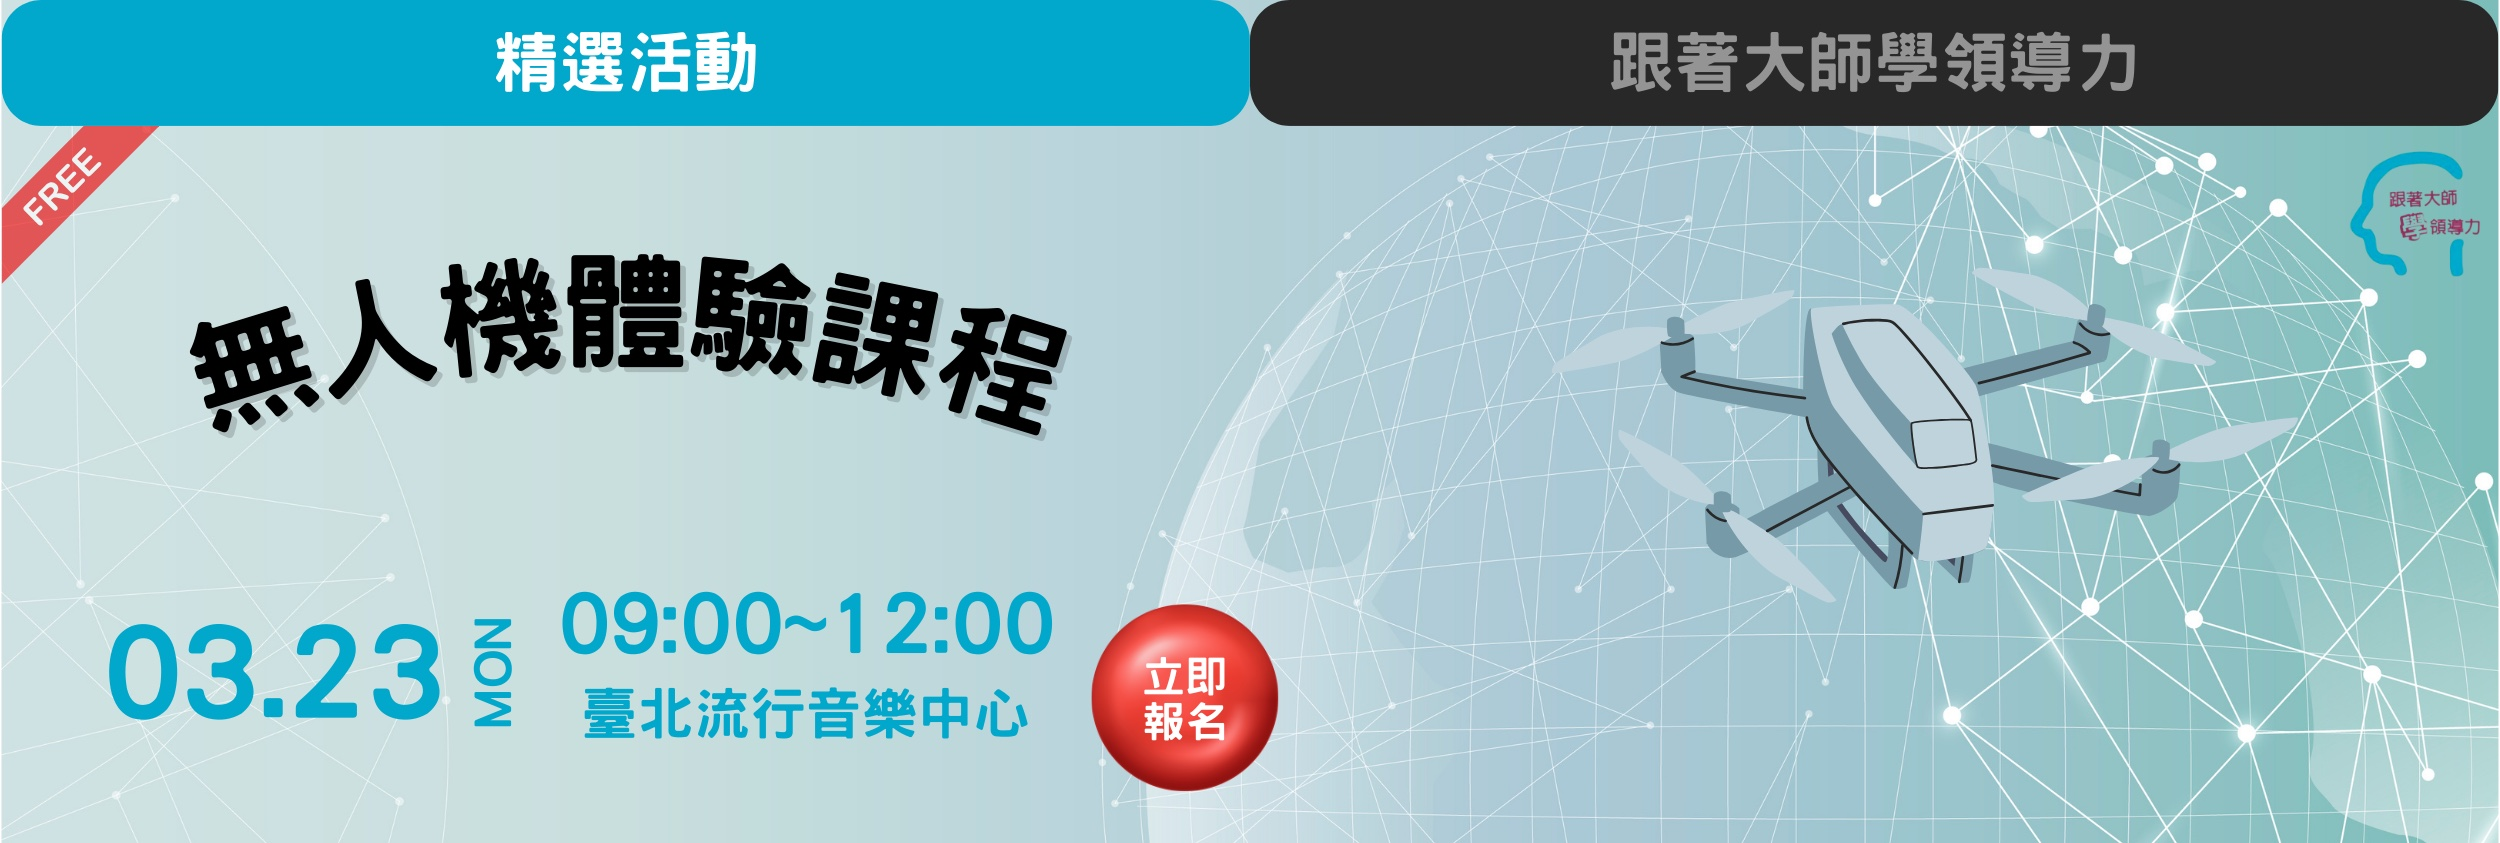
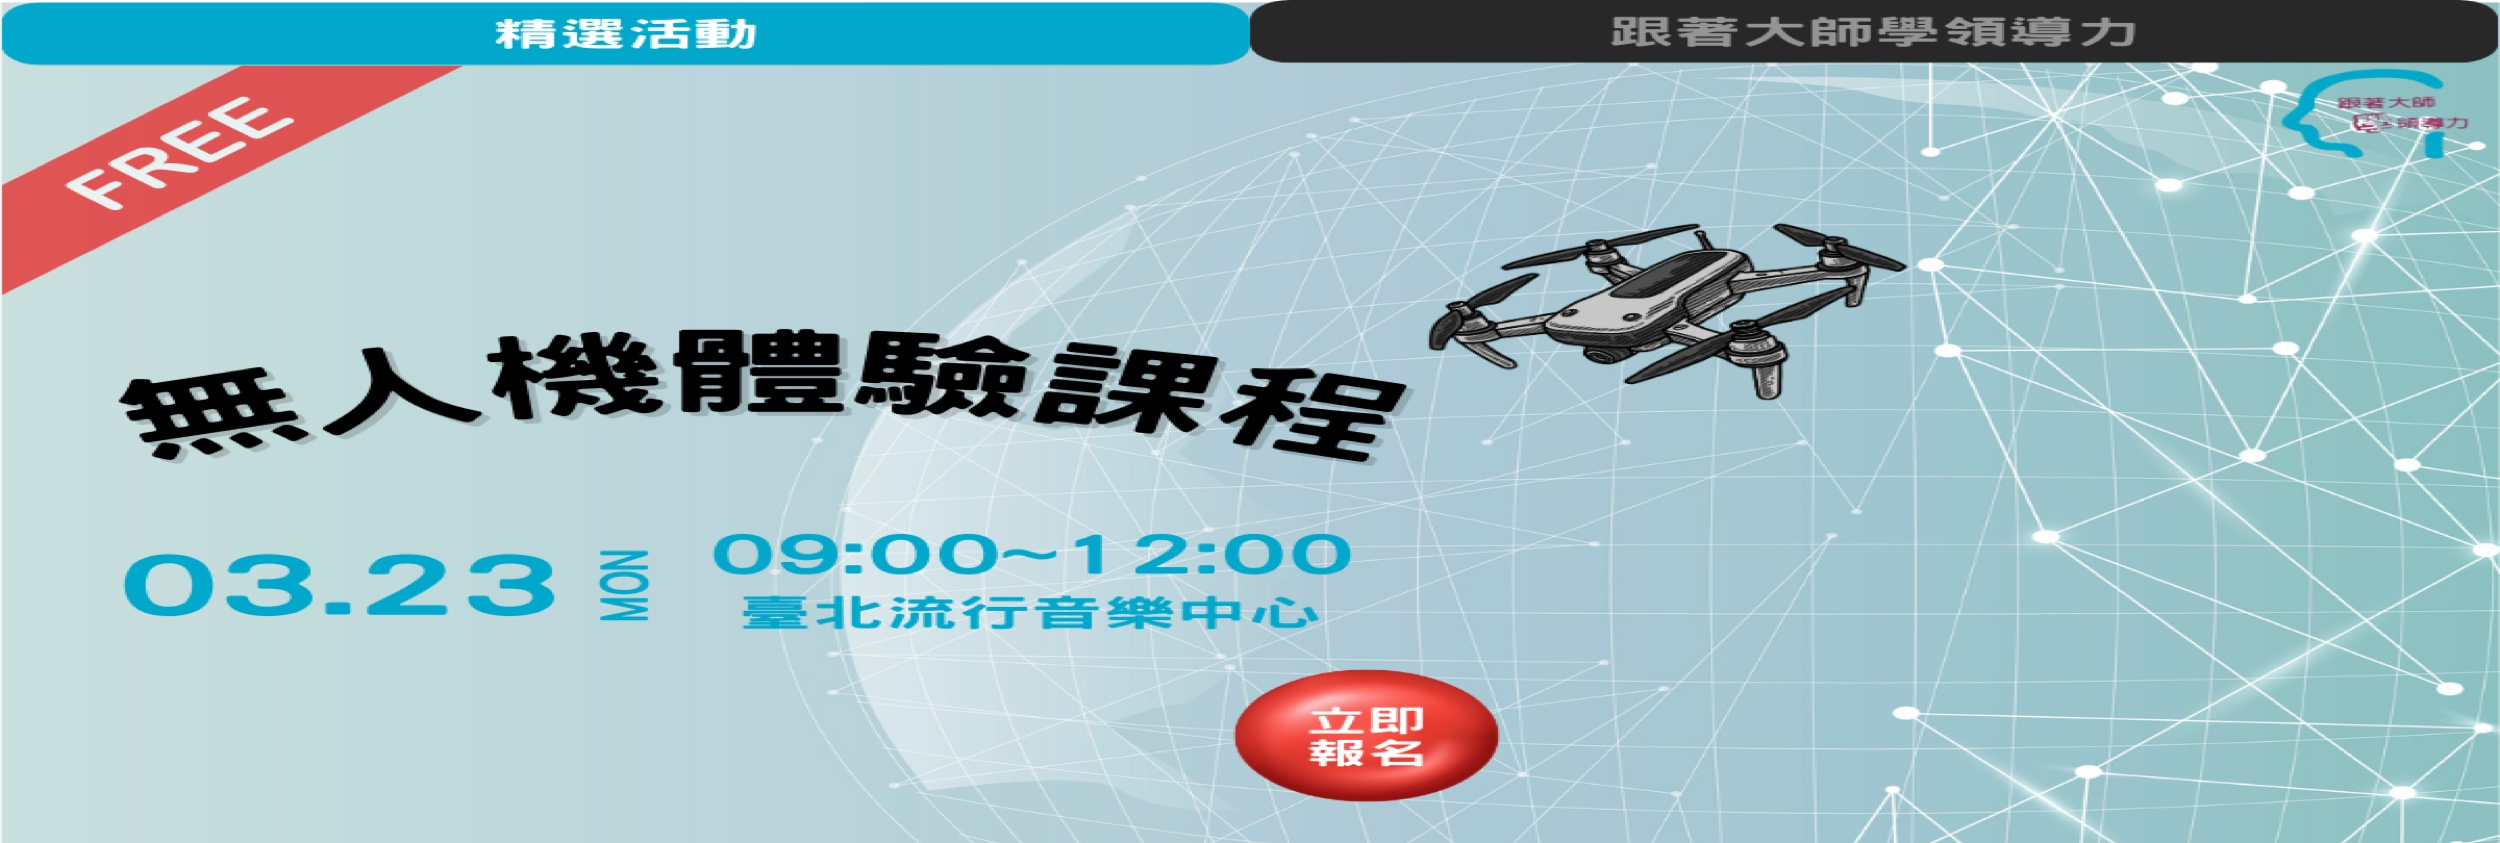
feat: 更新圖文選單圖片與點擊坐標（加入YouTube搜尋列區域）

diff --git a/richMenu.js b/richMenu.js
@@ -36,7 +36,7 @@ const richMenu1 = {
     areas: [
         // 上方 Tab - 左半「精選活動」（切換到自己，alias-1）
         {
-            bounds: { x: 0, y: 0, width: 1250, height: 80 },
+            bounds: { x: 0, y: 0, width: 1250, height: 68 },
             action: {
                 type: 'richmenuswitch',
                 richMenuAliasId: 'alias-xueren-1',
@@ -46,7 +46,7 @@ const richMenu1 = {
         },
         // 上方 Tab - 右半「跟著大師學領導力」（切換到 Tab2，alias-2）
         {
-            bounds: { x: 1250, y: 0, width: 1250, height: 80 },
+            bounds: { x: 1250, y: 0, width: 1250, height: 68 },
             action: {
                 type: 'richmenuswitch',
                 richMenuAliasId: 'alias-xueren-2',
@@ -54,9 +54,9 @@ const richMenu1 = {
                 clipboardText: '跟著大師學領導力',
             },
         },
-        // 下方「立即報名」按鈕（紅色圓形，右下角）
+        // 下方「立即報名」紅色圓形按鈕（中央偏右下）
         {
-            bounds: { x: 1620, y: 630, width: 300, height: 213 },
+            bounds: { x: 940, y: 660, width: 380, height: 183 },
             action: {
                 type: 'uri',
                 uri: GOOGLE_FORM_URL,
@@ -82,7 +82,7 @@ const richMenu2 = {
     areas: [
         // 上方 Tab - 左半「精選活動」（切換 alias-1）
         {
-            bounds: { x: 0, y: 0, width: 1250, height: 80 },
+            bounds: { x: 0, y: 0, width: 1250, height: 68 },
             action: {
                 type: 'richmenuswitch',
                 richMenuAliasId: 'alias-xueren-1',
@@ -92,7 +92,7 @@ const richMenu2 = {
         },
         // 上方 Tab - 右半「跟著大師學領導力」（切換到自己）
         {
-            bounds: { x: 1250, y: 0, width: 1250, height: 80 },
+            bounds: { x: 1250, y: 0, width: 1250, height: 68 },
             action: {
                 type: 'richmenuswitch',
                 richMenuAliasId: 'alias-xueren-2',
@@ -100,25 +100,33 @@ const richMenu2 = {
                 clipboardText: '跟著大師學領導力',
             },
         },
-        // 第一季播放按鈕（左欄）
+        // 第一季播放卡片（左欄）
         {
-            bounds: { x: 60, y: 90, width: 700, height: 753 },
+            bounds: { x: 52, y: 73, width: 740, height: 500 },
             action: {
                 type: 'uri',
                 uri: YOUTUBE_URL,
             },
         },
-        // 第二季播放按鈕（中欄）
+        // 第二季播放卡片（中欄）
         {
-            bounds: { x: 860, y: 90, width: 700, height: 753 },
+            bounds: { x: 875, y: 73, width: 740, height: 500 },
             action: {
                 type: 'uri',
                 uri: YOUTUBE_URL,
             },
         },
-        // 第三季播放按鈕（右欄，不含最右邊小 logo）
+        // 第三季播放卡片（右欄）
         {
-            bounds: { x: 1650, y: 90, width: 700, height: 753 },
+            bounds: { x: 1698, y: 73, width: 740, height: 500 },
+            action: {
+                type: 'uri',
+                uri: YOUTUBE_URL,
+            },
+        },
+        // 下方 YouTube 搜尋列
+        {
+            bounds: { x: 330, y: 660, width: 1560, height: 160 },
             action: {
                 type: 'uri',
                 uri: YOUTUBE_URL,
@@ -126,6 +134,7 @@ const richMenu2 = {
         },
     ],
 };
+
 
 // ===========================
 // 上傳圖片
